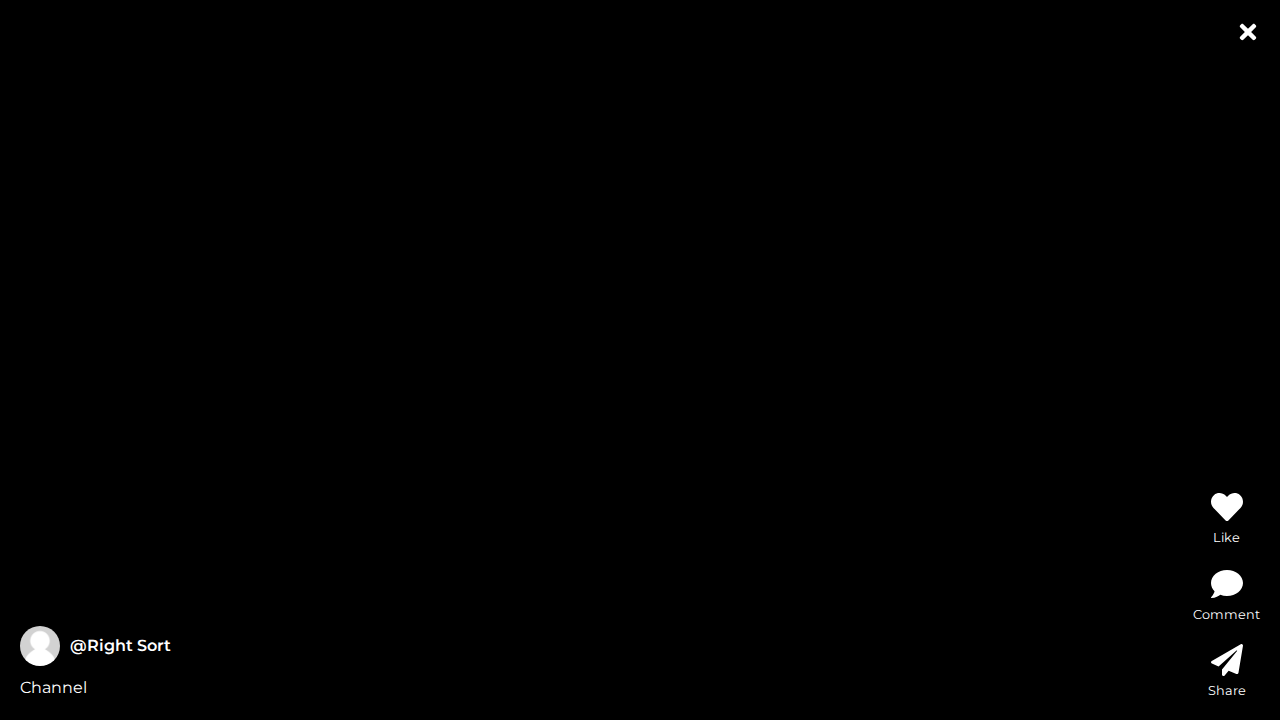
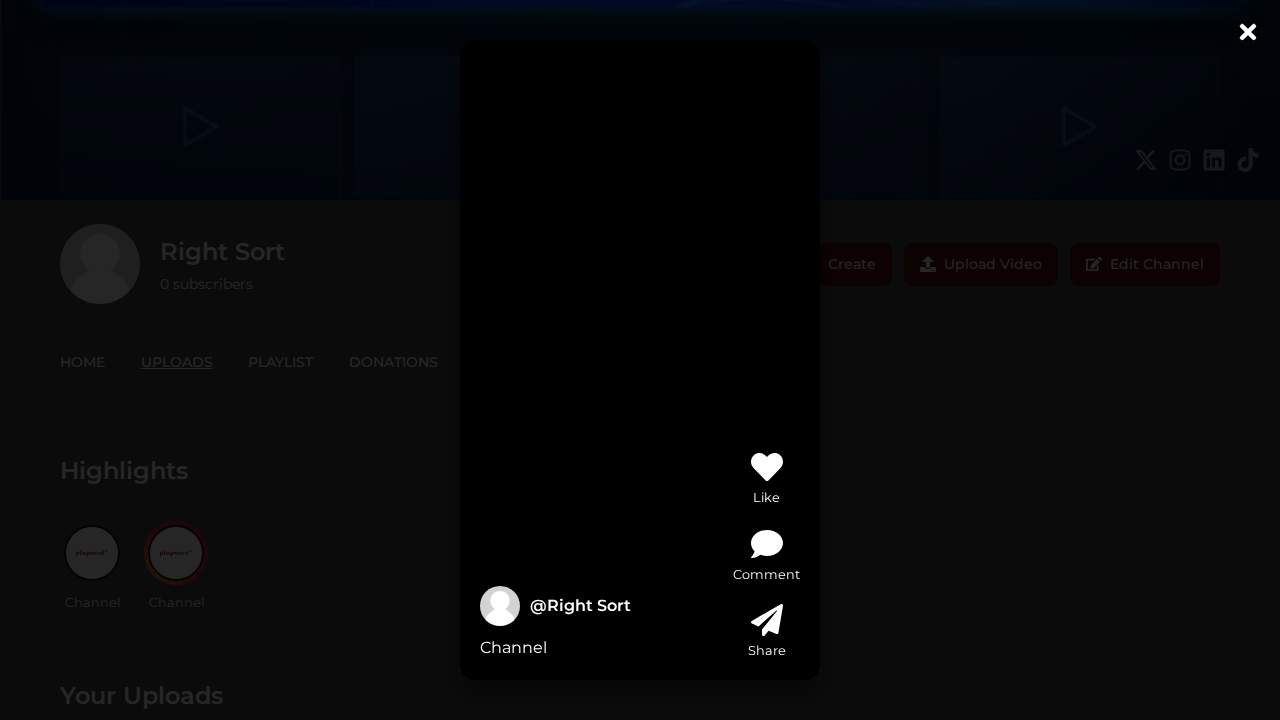
This commit refactors the highlight viewer to provide a user experience similar to YouTube Shorts. The new `VerticalHighlightViewer` component displays highlights in a full-screen, vertical, and scrollable view with a portrait aspect ratio.
Key changes include:
- A new `VerticalHighlightViewer` component that renders a single highlight at a time in a portrait format.
- The use of `IntersectionObserver` to automatically play and pause videos as they scroll into view.
- An overlay on the video to display creator information (avatar and name) and action buttons (like, comment, share).
- The `CreatorPage.jsx` component has been updated to launch the new viewer when a highlight is selected.
- Styled-components in `CreatorPageStyles.jsx` have been updated to support the new full-screen, portrait layout.

diff --git a/src/styles/CreatorPageStyles.jsx b/src/styles/CreatorPageStyles.jsx
@@ -1356,7 +1356,7 @@ export const VerticalScrollViewer = styled.div`
   left: 0;
   width: 100%;
   height: 100%;
-  background-color: black;
+  background-color: rgba(0, 0, 0, 0.85);
   overflow-y: scroll;
   scroll-snap-type: y mandatory;
   z-index: 10002;
@@ -1374,11 +1374,17 @@ export const HighlightStory = styled.div`
 
 export const VideoContainer = styled.div`
   position: relative;
-  width: 100%;
-  height: 100%;
+  width: 360px;
+  height: 640px;
+  max-width: 90vw;
+  max-height: 90vh;
+  background-color: black;
+  border-radius: 16px;
+  overflow: hidden;
   display: flex;
   justify-content: center;
   align-items: center;
+  box-shadow: 0 12px 24px rgba(0,0,0,0.5);
 `;
 
 export const Video = styled.video`
